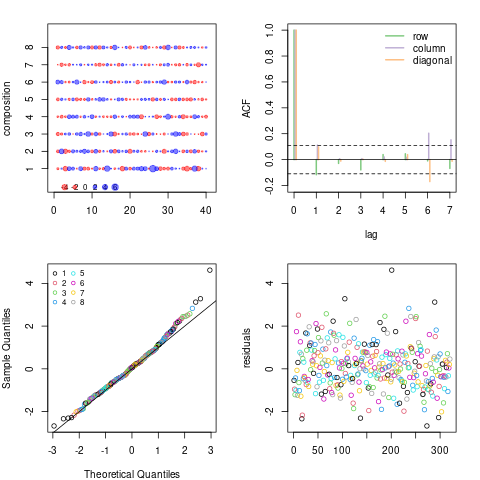
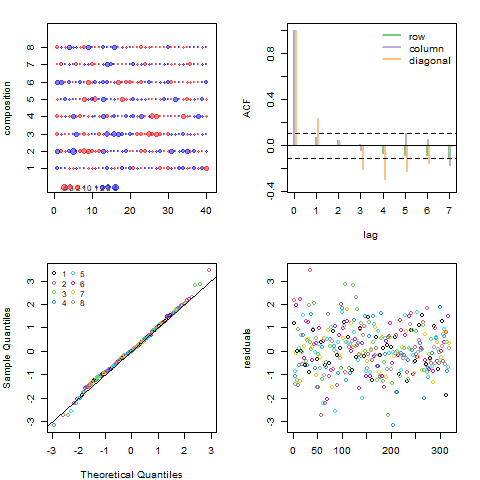
update readme so same residuals as paper

diff --git a/README.md b/README.md
@@ -10,12 +10,13 @@ TMB:::install.contrib("https://github.com/vtrijoulet/OSA_multivariate_dists/arch
 devtools::install_github("fishfollower/compResidual/compResidual")
 ```
 
-(To ensure only installing in 64-bit some windows users may need to install with:
+To ensure only installing in 64-bit some windows users may need to install with:
 
 ```R
+TMB:::install.contrib("https://github.com/vtrijoulet/OSA_multivariate_dists/archive/main.zip")
 devtools::install_github("fishfollower/compResidual/compResidual", INSTALL_opts=c("--no-multiarch"))
 ```
-)
+
 
 ## A quick example:
 
@@ -75,14 +76,22 @@ More details are available in the following paper \url{...}
 Additional data for Gulf of Maine Haddock used in the paper is supplied in the file <a href="GOMhaddock.RData">GOMhaddock.RData</a>. 
 
 ```R
-# example for fleet 2
-load("GOMhaddock.RData") # load df 
-obs<-GOMhaddock[GOMhaddock$Fleet==2, grep("^obsP",colnames(GOMhaddock))] # extract observations fleet 2
-obs<-round(obs*GOMhaddock[GOMhaddock$Fleet==2, "ESS"]) # multiply by effective sample size and round  
-pred<-GOMhaddock[GOMhaddock$Fleet==2, grep("^predP",colnames(GOMhaddock))] # extract predictions fleet 2
+# Example for fleet 1
+## load data file:
+load("GOMhaddock.RData") 
+## extract observations fleet 1:
+obs<-GOMhaddock[GOMhaddock$Fleet==1, grep("^obsP",colnames(GOMhaddock))]
+## multiply by effective sample size and round:
+obs<-round(obs*GOMhaddock[GOMhaddock$Fleet==1, "ESS"])
+## extract predictions fleet 1:
+pred<-GOMhaddock[GOMhaddock$Fleet==1, grep("^predP",colnames(GOMhaddock))] 
 
-library(compResidual) # load library
-res<-resMulti(t(obs), t(pred)) # calculate residuals 
+## load library:
+library(compResidual) 
+set.seed(123)
+## calculate residuals:
+res<-resMulti(t(obs), t(pred)) 
+## plot diagnostics:
 plot(res) 
 ```
 
